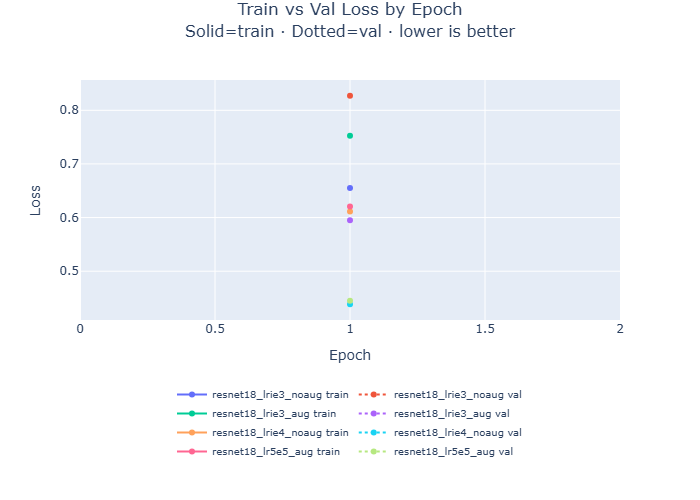
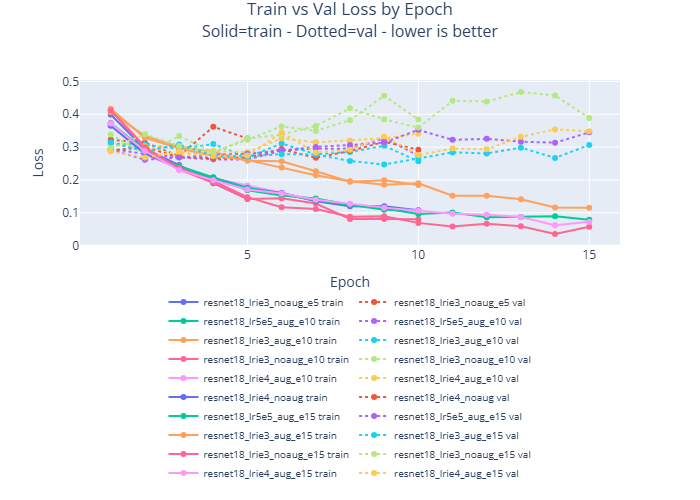
Fix pages images and update experiment status

diff --git a/pages/paleo-presentation.html b/pages/paleo-presentation.html
@@ -339,7 +339,8 @@
                     <strong style="color:#bae6fd;">Balanced images:</strong> nearly 10k local JPEGs<br>
                     <strong style="color:#bae6fd;">Class mix:</strong> predator / non-predator balanced<br>
                     <strong style="color:#bae6fd;">Split:</strong> 6,529 train / 2,142 validation<br>
-                    <strong style="color:#bae6fd;">PoT fine-tune:</strong> 240 train / 60 validation<br>
+                    <strong style="color:#bae6fd;">PoT fine-tune:</strong> 300 screenshots -> 240 train / 60 validation<br>
+                    <strong style="color:#bae6fd;">PoT holdout:</strong> 10 newest labeled game screenshots<br>
                     <strong style="color:#bae6fd;">Labels:</strong> species mapped to binary predator_label<br>
                     <strong style="color:#bae6fd;">Kaggle:</strong> deferred; no labeled image set
                 </div>
@@ -349,36 +350,37 @@
                 <div style="font-size:0.76rem;color:var(--color-text-secondary);line-height:1.65;">
                     <strong style="color:#bbf7d0;">Heuristic:</strong> majority class on balanced val set<br><br>
                     <strong style="color:#bbf7d0;">OpenCV Rule:</strong> brightness + motion threshold (deterministic, no training)<br><br>
-                    <strong style="color:#bbf7d0;">ResNet-18 sweep:</strong> LR in {1e-3, 1e-4, 5e-5} with augmentation variants
+                    <strong style="color:#bbf7d0;">Serengeti sweep:</strong> 12 evaluated ResNet-18 runs<br><br>
+                    <strong style="color:#bbf7d0;">PoT safety tests:</strong> 15-epoch fine-tunes with LR, class weight, and threshold sweeps
                 </div>
             </div>
             <div class="reveal" style="background:rgba(255,255,255,0.04);border:1px solid rgba(168,85,247,0.2);border-radius:12px;padding:1rem;">
                 <div style="font-weight:700;font-size:0.85rem;color:#d8b4fe;margin-bottom:0.6rem;">📊 Metrics &amp; Protocol</div>
                 <div style="font-size:0.76rem;color:var(--color-text-secondary);line-height:1.65;">
-                    <strong style="color:#e9d5ff;">Primary:</strong> validation accuracy on balanced subset<br>
-                    <strong style="color:#e9d5ff;">Run mode:</strong> balanced training/evaluation sweep<br>
+                    <strong style="color:#e9d5ff;">Primary:</strong> validation accuracy + predator recall<br>
+                    <strong style="color:#e9d5ff;">Run mode:</strong> balanced training/evaluation sweep + PoT fine-tune<br>
                     <strong style="color:#e9d5ff;">Training subset:</strong> balanced predator + non-predator images<br>
-                    <strong style="color:#e9d5ff;">Output:</strong> comparison_table.json + all_histories.json<br>
-                    <strong style="color:#e9d5ff;">Figures:</strong> make_figures.py exported PNGs
+                    <strong style="color:#e9d5ff;">Output:</strong> failure_analysis_comparison.json + PoT eval JSONs<br>
+                    <strong style="color:#e9d5ff;">Figures:</strong> validation accuracy + confusion matrices
                 </div>
             </div>
         </div>
         <div class="reveal" style="margin-top:1rem;display:grid;grid-template-columns:repeat(4,1fr);gap:0.75rem;">
             <div style="background:rgba(74,222,128,0.06);border:1px solid rgba(74,222,128,0.12);border-radius:8px;padding:0.6rem;text-align:center;">
-                <div style="font-size:1.3rem;font-weight:800;color:#4ade80;" data-count="5">0</div>
-                <div style="font-size:0.68rem;color:var(--color-text-muted);text-transform:uppercase;letter-spacing:1px;">Training runs</div>
+                <div style="font-size:1.3rem;font-weight:800;color:#4ade80;" data-count="12">0</div>
+                <div style="font-size:0.68rem;color:var(--color-text-muted);text-transform:uppercase;letter-spacing:1px;">Serengeti eval runs</div>
             </div>
             <div style="background:rgba(56,189,248,0.06);border:1px solid rgba(56,189,248,0.12);border-radius:8px;padding:0.6rem;text-align:center;">
-                <div style="font-size:1.3rem;font-weight:800;color:#38bdf8;" data-count="10000">0</div>
-                <div style="font-size:0.68rem;color:var(--color-text-muted);text-transform:uppercase;letter-spacing:1px;">Balanced images</div>
+                <div style="font-size:1.3rem;font-weight:800;color:#38bdf8;" data-count="8671">0</div>
+                <div style="font-size:0.68rem;color:var(--color-text-muted);text-transform:uppercase;letter-spacing:1px;">Serengeti split images</div>
             </div>
             <div style="background:rgba(168,85,247,0.06);border:1px solid rgba(168,85,247,0.12);border-radius:8px;padding:0.6rem;text-align:center;">
-                <div style="font-size:1.3rem;font-weight:800;color:#d8b4fe;" data-count="5000">0</div>
-                <div style="font-size:0.68rem;color:var(--color-text-muted);text-transform:uppercase;letter-spacing:1px;">Predator images</div>
+                <div style="font-size:1.3rem;font-weight:800;color:#d8b4fe;" data-count="300">0</div>
+                <div style="font-size:0.68rem;color:var(--color-text-muted);text-transform:uppercase;letter-spacing:1px;">PoT fine-tune labels</div>
             </div>
             <div style="background:rgba(212,160,23,0.06);border:1px solid rgba(212,160,23,0.12);border-radius:8px;padding:0.6rem;text-align:center;">
-                <div style="font-size:1.3rem;font-weight:800;color:#fcd34d;" data-count="5000">0</div>
-                <div style="font-size:0.68rem;color:var(--color-text-muted);text-transform:uppercase;letter-spacing:1px;">Non-predator images</div>
+                <div style="font-size:1.3rem;font-weight:800;color:#fcd34d;" data-count="10">0</div>
+                <div style="font-size:0.68rem;color:var(--color-text-muted);text-transform:uppercase;letter-spacing:1px;">PoT holdout images</div>
             </div>
         </div>
     </div>
@@ -537,7 +539,7 @@
             </div>
         </div>
         <div class="reveal" style="margin-bottom:0.85rem;background:rgba(255,255,255,0.05);border:1px solid rgba(255,255,255,0.1);border-radius:8px;padding:0.65rem 0.85rem;font-size:0.78rem;color:var(--color-text-secondary);">
-            1e-4 is still the accuracy pick: it was strongest on the large balanced Serengeti experiment (6,529 train / 2,142 validation) and on the 300-screenshot PoT split (240 train / 60 validation). For deployment, we shifted to a safety-tuned operating point because the agent should over-warn rather than miss a predator.
+            <code>1e-4</code> is still the accuracy pick: it was strongest on Serengeti and on the 300-screenshot PoT validation split. But on the 10-image game holdout, class weighting alone did not fix false negatives at the default threshold. We switched from "best accuracy checkpoint" to a safety operating point: <code>lr=3e-5</code>, predator class weight <code>3.0</code>, and threshold <code>0.20</code>, because the live agent should over-warn rather than miss predators.
         </div>
         <div style="display:grid;grid-template-columns:1fr 1fr;gap:1rem;">
             <div class="reveal" style="background:rgba(239,68,68,0.06);border:1px solid rgba(239,68,68,0.2);border-radius:12px;padding:1rem;border-left:3px solid #f87171;">
@@ -561,8 +563,8 @@
                 <div style="font-size:0.77rem;color:var(--color-text-secondary);line-height:1.55;">Recent_events buffer holds only 5 items. Agent cannot reason about patterns beyond the last 5 ticks — repeated attack from same direction not detected. Longer memory or Letta RAG integration needed</div>
             </div>
             <div class="reveal" style="background:rgba(239,68,68,0.06);border:1px solid rgba(239,68,68,0.2);border-radius:12px;padding:1rem;border-left:3px solid #4ade80;">
-                <div style="font-weight:700;font-size:0.85rem;color:#86efac;margin-bottom:0.4rem;">Balanced set is still small</div>
-                <div style="font-size:0.77rem;color:var(--color-text-secondary);line-height:1.55;">The Serengeti set is much larger than the current PoT set. That is why the Serengeti LR result is more stable, while the 10-image PoT holdout should be treated as an early safety check rather than a final benchmark.</div>
+                <div style="font-weight:700;font-size:0.85rem;color:#86efac;margin-bottom:0.4rem;">Threshold beat retraining alone</div>
+                <div style="font-size:0.77rem;color:var(--color-text-secondary);line-height:1.55;">The weighted fine-tune still missed too many predators at default threshold. Lowering the predator threshold to <code>0.20</code> on the weighted run moved recall from <code>0.571</code> to <code>0.714</code> on the tiny holdout, trading one extra false alarm for fewer missed threats.</div>
             </div>
         </div>
     </div>

diff --git a/pages/project-checkin-1.html b/pages/project-checkin-1.html
@@ -474,9 +474,9 @@
       </article>
       <article class="card">
         <h2>Current Status</h2>
-        <p><span class="status in-progress">IN PROGRESS</span>Scaffold, docs, and deployment are ready.</p>
-        <p><span class="status planned">PLANNED</span>Dataset download, training, and quantitative evaluation next.</p>
-        <p class="muted tiny">No model results yet; this reflects honest current progress.</p>
+        <p><span class="status done">DONE</span>Scaffold, docs, deployment, Serengeti training, and PoT fine-tuning are ready.</p>
+        <p><span class="status in-progress">IN PROGRESS</span>Letta-in-the-loop integration and full in-game smoke testing are next.</p>
+        <p class="muted tiny">This page now reflects the later project state, including saved model metrics and figures.</p>
       </article>
     </section>
 
@@ -530,8 +530,8 @@
         <summary>5-6) Dataset and model choices</summary>
         <div class="qa-content">
           <ul>
-            <li><strong>Datasets:</strong> Snapshot Serengeti + Kaggle predator/prey image dataset.</li>
-            <li><strong>Preprocessing:</strong> unified label schema, augmentation, balancing, and train/val/test split.</li>
+            <li><strong>Datasets:</strong> Snapshot Serengeti for real-image training + 300 manually labeled Path of Titans screenshots for domain adaptation.</li>
+            <li><strong>Preprocessing:</strong> unified predator/non-predator label schema, augmentation, balancing, and train/validation splits.</li>
             <li><strong>Baseline:</strong> OpenCV rule-based policy.</li>
             <li><strong>Main model:</strong> ResNet-18 transfer learning for behavior intent classification.</li>
             <li><strong>Agent orchestration:</strong> one Letta agent per dinosaur with memory blocks for needs/events/risk.</li>
@@ -557,8 +557,8 @@
             <li>Week 1: finalize dataset selection and preprocessing scripts.</li>
             <li>Week 2: implement OpenCV baseline + first ResNet-18 training run.</li>
             <li>Week 3: sensitivity and hyperparameter sweep.</li>
-            <li>Week 4: integrate classifier into Letta agent loop.</li>
-            <li>Week 5: produce final figures/tables and polish report.</li>
+            <li>Week 4: integrate classifier into the live agent loop.</li>
+            <li>Week 5: produce final figures/tables, safety threshold analysis, and polish report.</li>
           </ul>
         </div>
       </details>
@@ -567,13 +567,13 @@
         <summary>9-10) Progress and challenges</summary>
         <div class="qa-content">
           <p>
-            Current repo status is scaffold-first: <code>src/</code>, <code>scripts/</code>, <code>tests/</code>,
-            <code>docs/</code>, reproducible commands in README, and now Pages deployment.
+            Current repo status has moved past scaffold-first: <code>src/</code>, <code>scripts/</code>, <code>tests/</code>,
+            <code>docs/</code>, saved checkpoints, saved metrics, reproducible commands in README, and Pages deployment.
           </p>
           <ul>
-            <li><strong>Progress honesty:</strong> no downloaded final dataset subset, no trained model results yet.</li>
-            <li><strong>Challenges:</strong> class imbalance, domain shift, hardware limits, label noise, low-confidence oscillations.</li>
-            <li><strong>Mitigations:</strong> weighted loss, balancing, confidence thresholds, and safe-action fallback logic.</li>
+            <li><strong>Progress honesty:</strong> model results exist, but the Path of Titans holdout is still tiny and should be treated as an early safety check.</li>
+            <li><strong>Challenges:</strong> class imbalance, domain shift, hardware limits, label noise, low-confidence oscillations, and false negatives.</li>
+            <li><strong>Mitigations:</strong> weighted loss, balancing, confidence thresholds, threshold sweeps, and safe-action fallback logic.</li>
           </ul>
         </div>
       </details>
@@ -619,12 +619,12 @@
       <div class="artifact-grid">
         <article class="artifact-panel">
           <h3>Training Curves Panel</h3>
-          <img class="img-slot" src="../output/figures/convergence_curves.png" alt="Training and validation loss curves for experiment runs">
+          <img class="img-slot" src="figures/convergence_curves.png" alt="Training and validation loss curves for experiment runs">
           <p class="img-caption">Best selected run: ResNet-18, lr=1e-4, augmentation on, 15 epochs.</p>
         </article>
         <article class="artifact-panel">
           <h3>Sensitivity Analysis Table</h3>
-          <img class="img-slot" src="../output/figures/lr_sensitivity.png" alt="Validation accuracy sensitivity across learning-rate choices">
+          <img class="img-slot" src="figures/lr_sensitivity.png" alt="Validation accuracy sensitivity across learning-rate choices">
           <table class="mini-table" aria-label="Learning-rate comparison with augmentation on">
             <thead>
               <tr>
@@ -646,9 +646,9 @@
         </article>
         <article class="artifact-panel">
           <h3>Baseline Comparison</h3>
-          <img class="img-slot" src="../output/figures/final_comparison.png" alt="Final validation accuracy comparison across baseline and ResNet variants">
+          <img class="img-slot" src="figures/final_comparison.png" alt="Final validation accuracy comparison across baseline and ResNet variants">
           <p class="img-caption">Baseline versus model variants from the latest sweep.</p>
-          <img class="img-slot" src="../output/figures/confusion_matrices/resnet18_lrie4_aug_e15_confusion_matrix.png" alt="Confusion matrix for best selected ResNet-18 model: lr=1e-4 with augmentation at 15 epochs">
+          <img class="img-slot" src="figures/confusion_matrices/resnet18_lrie4_aug_e15_confusion_matrix.png" alt="Confusion matrix for best selected ResNet-18 model: lr=1e-4 with augmentation at 15 epochs">
         </article>
       </div>
     </section>

diff --git a/pages/index.html b/pages/index.html
@@ -747,14 +747,14 @@
         <div class="grid feature-list">
           <article class="card">
             <h3>Behavior Intelligence Engine</h3>
-            <p>Translates visual cues into actionable behavior-state signals.</p>
+            <p>Translates visual cues into predator/non-predator threat signals and safety-first action cues.</p>
             <span class="pill">Computer Vision</span>
-            <span class="pill">ResNet-18 plan</span>
+            <span class="pill">ResNet-18 trained</span>
             <span class="pill">OpenCV baseline</span>
           </article>
           <article class="card">
             <h3>Per-Dinosaur Agent Memory</h3>
-            <p>Each dinosaur tracks identity, needs, recent events, and threat memory.</p>
+            <p>Each dinosaur tracks identity, needs, recent events, threat memory, and explainable action intent.</p>
             <span class="pill">Letta architecture</span>
             <span class="pill">State tracking</span>
             <span class="pill">Explainable logs</span>
@@ -775,9 +775,9 @@
         <div class="icon-line"><i class="fa-solid fa-seedling" aria-hidden="true"></i> Roadmap</div>
         <h2>Roadmap</h2>
         <div class="grid">
-          <article class="card"><h3>Now</h3><p>Scaffold, deployment, and check-in deliverables complete.</p></article>
-          <article class="card"><h3>Next</h3><p>Dataset setup, preprocessing, and baseline model training.</p></article>
-          <article class="card"><h3>Then</h3><p>Agent-loop integration, evaluation dashboards, and demos.</p></article>
+          <article class="card"><h3>Now</h3><p>Serengeti training, PoT fine-tuning, safety thresholding, deployment, and check-in deliverables complete.</p></article>
+          <article class="card"><h3>Next</h3><p>Wire Letta as the real decision/memory layer in the live loop.</p></article>
+          <article class="card"><h3>Then</h3><p>Run full in-game PoT smoke tests, add more holdout images, and collect demo clips.</p></article>
         </div>
       </div>
     </section>
@@ -809,10 +809,10 @@
           </article>
         </div>
         <div class="image-row">
-          <img class="placeholder-image" src="../output/figures/convergence_curves.png" alt="Training and validation loss convergence curves across epochs">
-          <img class="placeholder-image" src="../output/figures/lr_sensitivity.png" alt="Validation accuracy versus learning-rate settings">
-          <img class="placeholder-image" src="../output/figures/final_comparison.png" alt="Final validation accuracy comparison across experiment runs">
-          <img class="placeholder-image" src="../output/figures/confusion_matrices/resnet18_lrie4_aug_e15_confusion_matrix.png" alt="Confusion matrix for the best-accuracy ResNet-18 model (lr=1e-4, augmentation, 15 epochs)">
+          <img class="placeholder-image" src="figures/convergence_curves.png" alt="Training and validation loss convergence curves across epochs">
+          <img class="placeholder-image" src="figures/lr_sensitivity.png" alt="Validation accuracy versus learning-rate settings">
+          <img class="placeholder-image" src="figures/final_comparison.png" alt="Final validation accuracy comparison across experiment runs">
+          <img class="placeholder-image" src="figures/confusion_matrices/resnet18_lrie4_aug_e15_confusion_matrix.png" alt="Confusion matrix for the best-accuracy ResNet-18 model (lr=1e-4, augmentation, 15 epochs)">
         </div>
       </div>
     </section>
@@ -834,12 +834,12 @@
           </article>
           <article class="update-card">
             <div class="update-date">Mar 2026</div>
-            Locked in model direction and per-dinosaur memory architecture.
-            <div class="update-tag">Architecture</div>
+            Trained Serengeti ResNet-18, fine-tuned on 300 Path of Titans screenshots, and added safety threshold analysis.
+            <div class="update-tag">Training</div>
           </article>
           <article class="update-card">
             <div class="update-date">Next Milestone</div>
-            Start dataset ingestion and first benchmark training runs.
+            Wire Letta into the live loop and run the first focused in-game Path of Titans smoke test.
             <div class="update-tag">Coming Next</div>
           </article>
         </div>
@@ -856,15 +856,16 @@
             <ul>
               <li>Public PALEO site with Home, Technical, and Check-in tabs.</li>
               <li>Project scaffold with reproducible run/test commands.</li>
-              <li>Documented data, model, and agent architecture plan.</li>
+              <li>Documented data, model, safety threshold, and agent architecture path.</li>
+              <li>Saved Serengeti and Path of Titans model metrics with confusion matrices.</li>
             </ul>
           </article>
           <article class="card">
             <h3>Coming Next</h3>
             <ul>
-              <li>Dataset download and preprocessing scripts.</li>
-              <li>First baseline runs with measurable metrics.</li>
-              <li>Behavior demos and richer technical charts.</li>
+              <li>Letta session integration in the live loop.</li>
+              <li>Focused Path of Titans smoke test with simple movement.</li>
+              <li>More labeled game screenshots, especially predator cases.</li>
             </ul>
           </article>
         </div>

diff --git a/pages/technical.html b/pages/technical.html
@@ -441,7 +441,7 @@
       <p class="muted">
         Model, data, and integration details for development-focused readers.
       </p>
-      <p><span class="status in-progress">IN PROGRESS</span>Foundation complete; experiments and integration are next.</p>
+      <p><span class="status in-progress">IN PROGRESS</span>Training, fine-tuning, safety thresholding, and live runtime paths are working; Letta-in-the-loop remains the main integration gap.</p>
     </section>
 
     <div class="section-divider fern reveal" aria-hidden="true">
@@ -465,8 +465,8 @@
       </article>
       <article class="card">
         <h3>Repository State</h3>
-        <p class="metric">Scaffold Ready</p>
-        <p class="muted"><code>src/</code>, <code>scripts/</code>, <code>tests/</code>, <code>docs/</code> plus Pages site deployed.</p>
+        <p class="metric">Models + Pages</p>
+        <p class="muted"><code>src/</code>, <code>scripts/</code>, <code>tests/</code>, <code>docs/</code>, saved checkpoints, metrics, and Pages site deployed.</p>
       </article>
       <article class="card">
         <h3>Planned Agent Scale</h3>
@@ -541,10 +541,10 @@
           <li>Main model: ResNet-18 transfer learning for predator vs non-predator prediction.</li>
           <li>Accuracy pick: <code>lr=1e-4</code> stayed strongest after the 300-image PoT fine-tune, with validation accuracy <code>0.767</code> on the 60-image split.</li>
           <li>Safety pick: <code>lr=3e-5</code> + predator class weight <code>3.0</code> + threshold <code>0.20</code>.</li>
-          <li>Why we shifted: gameplay should prefer false positives over missed predators, so predator recall became more important than raw accuracy.</li>
-          <li>Holdout result (10 PoT images): accuracy stayed <code>0.70</code>, while predator recall improved from <code>0.571</code> to <code>0.714</code>.</li>
+          <li>Why we shifted: class weighting alone did not fix the false-negative problem at the default threshold, and gameplay should prefer false positives over missed predators.</li>
+          <li>Holdout result (10 PoT images): the safety operating point moved predator recall from <code>0.571</code> to <code>0.714</code>, with accuracy <code>0.70</code>.</li>
           <li>Agent orchestration: one Letta agent per dinosaur.</li>
-          <li>Planned outputs: convergence curves, sensitivity sweeps, qualitative cases.</li>
+          <li>Delivered outputs: convergence curves, sensitivity sweeps, confusion matrices, threshold sweeps, and qualitative failure cases.</li>
         </ul>
       </article>
       <article class="card">
@@ -606,10 +606,12 @@
       <div id="featureList">
         <article class="feature" data-status="done"><span class="status done">DONE</span>GitHub Pages deployment from <code>pages/</code> via GitHub Actions.</article>
         <article class="feature" data-status="done"><span class="status done">DONE</span>Public homepage + technical + check-in tab structure.</article>
-        <article class="feature" data-status="in-progress"><span class="status in-progress">IN PROGRESS</span>Documentation refinement and technical page upgrades.</article>
-        <article class="feature" data-status="planned"><span class="status planned">PLANNED</span>Dataset ingestion pipeline for selected training subsets.</article>
-        <article class="feature" data-status="planned"><span class="status planned">PLANNED</span>Classifier training with sensitivity experiments and baseline comparison.</article>
-        <article class="feature" data-status="planned"><span class="status planned">PLANNED</span>Integrated agent loop with confidence thresholds and fallback actions.</article>
+        <article class="feature" data-status="done"><span class="status done">DONE</span>Documentation refinement and technical page upgrades.</article>
+        <article class="feature" data-status="done"><span class="status done">DONE</span>Dataset ingestion pipeline for selected Serengeti and Path of Titans training subsets.</article>
+        <article class="feature" data-status="done"><span class="status done">DONE</span>Classifier training with sensitivity experiments, baseline comparison, and confusion matrices.</article>
+        <article class="feature" data-status="done"><span class="status done">DONE</span>Safety threshold sweep for predator recall on the 10-image Path of Titans holdout.</article>
+        <article class="feature" data-status="in-progress"><span class="status in-progress">IN PROGRESS</span>Integrated agent loop with confidence thresholds and fallback actions.</article>
+        <article class="feature" data-status="planned"><span class="status planned">PLANNED</span>Full in-game Path of Titans smoke test with focused game window and simple movement.</article>
       </div>
     </section>
 

diff --git a/pages/project-checkin-2.html b/pages/project-checkin-2.html
@@ -255,7 +255,7 @@
             <li><strong>Training path:</strong> Serengeti -> PoT fine-tune pipeline is running end-to-end with saved checkpoints and metrics.</li>
             <li><strong>Latest Serengeti result:</strong> best 15-epoch real-image run is <code>ResNet-18 lr=1e-4 + augmentation</code> with <code>0.9118</code> validation accuracy and <code>0.9206</code> predator recall on the 2,142-image validation split.</li>
             <li><strong>300-image PoT result:</strong> <code>lr=1e-4</code> is the accuracy pick on the 60-image validation split (<code>0.767</code> accuracy, <code>0.742</code> predator recall).</li>
-            <li><strong>Agent safety result:</strong> safety-tuned 15-epoch variant (<code>lr=3e-5</code>, predator class weight <code>3.0</code>) improves predator recall on the 10-image holdout from <code>0.571</code> to <code>0.714</code> using threshold <code>0.20</code>.</li>
+            <li><strong>Agent safety result:</strong> class weighting alone did not fix default-threshold false negatives, so the live-agent operating point switched to <code>lr=3e-5</code>, predator class weight <code>3.0</code>, and threshold <code>0.20</code>, moving predator recall on the 10-image holdout from <code>0.571</code> to <code>0.714</code>.</li>
             <li><strong>Safety controls added:</strong> inference now supports predator threshold tuning and threshold-sweep metrics for recall/precision tradeoffs.</li>
             <li><strong>Main gap:</strong> real Letta session integration in the middle of the live loop.</li>
             <li><strong>Still pending:</strong> full Path of Titans in-game smoke test (focused game window + simple walk control).</li>

diff --git a/docs/project_checkin2/response2.md b/docs/project_checkin2/response2.md
@@ -64,7 +64,7 @@ Examples may include accuracy, F1 score, mAP,  success rate, latency, user satis
 - **Keyboard output:** **Working in prototype**—`run_paleo_control_loop.py` can run **advice-only** or **control** with **`--enable-control`** and an **F12** emergency stop (`README.md`). This is the path for “hold W to walk” style tests once the game window is focused.
 - **Agent loop in code:** **Instinct Agent** decisions, **Primal Mind** state, thought formatting, and PoT-style key mapping exist in `src/agent.py`, `src/pot.py`, with **`simulate_dino.py`** to sample scenarios and **`run_pipeline.py`** for a one-shot integrated demo.
 - **Training / data path (wildlife):** Manifest pipeline (`prepare_data`), image download, **ResNet fine-tune** (`train_serengeti_images`), **eval** (`evaluate_serengeti_images`), and **experiment sweep + JSON outputs** (`run_experiments.py`) are in the repo; results appear under `results/experiments/` **after you run them locally** (not committed).
-- **Latest model update:** Fine-tuned checkpoint from 300 PoT screenshots (`epoch=15`) with LR sweep. The accuracy pick is `lr=1e-4` (`0.767` validation accuracy on the 60-image split). The agent safety pick is `lr=3e-5` with predator class weight `3.0` and threshold `0.20`, which improves 10-image predator recall from `0.571` to `0.714` while keeping holdout accuracy at `0.70`.
+- **Latest model update:** Fine-tuned checkpoint from 300 PoT screenshots (`epoch=15`) with LR sweep. The accuracy pick is `lr=1e-4` (`0.767` validation accuracy on the 60-image split). Class weighting alone did not fix false negatives at the default threshold on the tiny 10-image holdout, so the agent safety operating point switched to `lr=3e-5`, predator class weight `3.0`, and threshold `0.20`, moving predator recall from `0.571` to `0.714` while keeping holdout accuracy at `0.70`.
 - **False-negative mitigation now supported:** configurable predator threshold in inference and threshold-sweep eval output to select a recall-prioritized operating point.
 - **Main gap:** **Letta** is still **stub / schema** level (`letta_tools.py`, `show_letta_tools.py`)—not the live “brain in the middle” yet.
 - **Not done yet:** I have **not** fully tested **PALEO while actually playing Path of Titans** (focused game window, real in-game screen, simple movement like **holding W**). That is the next practical check.
